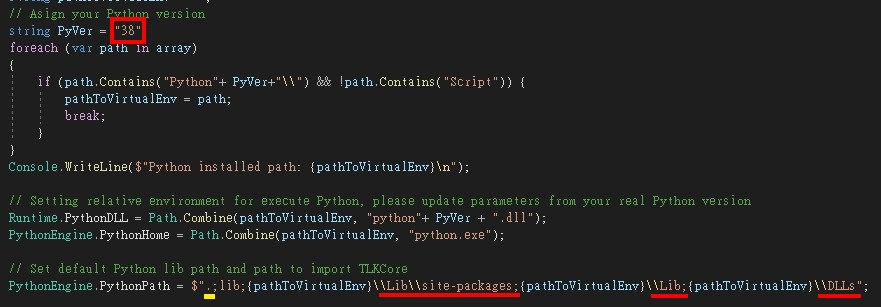
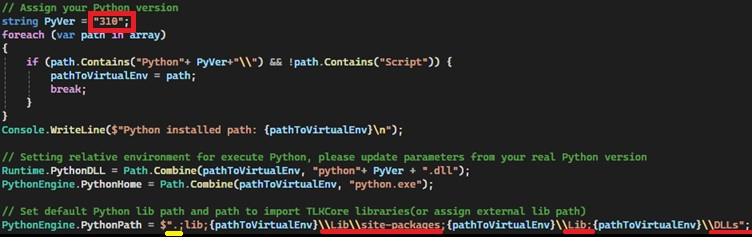
feat: change example to 3.10

diff --git a/examples/MATLAB/TLKCoreExample.m b/examples/MATLAB/TLKCoreExample.m
@@ -8,7 +8,7 @@ if pe.Status == "NotLoaded"
     disp(" ----- Calling pyenv to check Python environment, and it's NotLoaded -> Start loading(OutOfProcess) -----")
 
     % PLEASE MODIFY TO YOUR PYTHON VERSION (3.8/3.10/...) HERE
-    pyenv(ExecutionMode="OutOfProcess")%, "Version", "3.8")
+    pyenv(ExecutionMode="OutOfProcess")%, "Version", "3.10")
 end
 disp(" ----- Calling a simple Pytohn function: py.list to load Python interpreter -----")
 py.list

diff --git a/examples/CSharp/TLKCoreExample/ExampleMain.cs b/examples/CSharp/TLKCoreExample/ExampleMain.cs
@@ -14,7 +14,7 @@ namespace TLKCoreExample
             string[] array = env.Split(new[] { ";" }, StringSplitOptions.None);
             string pathToVirtualEnv = "";
             // Assign your Python version
-            string PyVer = "38";
+            string PyVer = "310";
             foreach (var path in array)
             {
                 if (path.Contains("Python"+ PyVer+"\\") && !path.Contains("Script")) {

diff --git a/examples/MATLAB/README.md b/examples/MATLAB/README.md
@@ -4,7 +4,23 @@
 
 1. Install Python *3.8 ~ 3.12* and install TLKCore follow reference user guide of [Getting Started with Python Sample Code](../Python/README.md) to make sure your Python environment first.
 2. According to [Versions of Python Compatible with MATLAB Products by Release](https://www.mathworks.com/support/requirements/python-compatibility.html) to download MATLAB to maps your Python version.
-   ![matlab](/images/table_matlab.svg)
+
+| MATLAB Version | Python 3.12 | Python 3.11 | Python 3.10 | Python 3.9 | Python 3.8 |
+| :--- | :---: | :---: | :---: | :---: | :---: |
+| **R2026a** | ✅ | ✅ | ✅ | ✅ | |
+| **R2025b** | ✅ | ✅ | ✅ | ✅ | |
+| **R2025a** | ✅ | ✅ | ✅ | ✅ | |
+| **R2024b** | ✅ | ✅ | ✅ | ✅ | |
+| **R2024a** | | ✅ | ✅ | ✅ | |
+| **R2023b** | | ✅ | ✅ | ✅ | |
+| **R2023a** | | | ✅ | ✅ | ✅ |
+| **R2022b** | | | ✅ | ✅ | ✅ |
+| **R2022a** | | | | ✅ | ✅ |
+| **R2021b** | | | | ✅ | ✅ |
+| **R2021a** | | | | | ✅ |
+
+> Notice：`✅` mean supported。
+
 3. Create the new directory: *files*
 ```
 ├── files
@@ -16,7 +32,7 @@
    * BBox calibration tables -> **{SN}_{Freq}GHz.csv**
    * BBox antenna table -> **AAKIT_{AAKitName}.csv**
 
-P.S. The following example executes *MATLAB R2021b & Pyhton 3.8 64bit* on Windows 10
+P.S. The following example executes *MATLAB R2025a & Pyhton 3.10 64bit* on Windows 10
 
 ## MATLAB sample execution steps
 

diff --git a/examples/LabVIEW/README.md b/examples/LabVIEW/README.md
@@ -5,7 +5,18 @@
 1. Python 3 ([Installing Python3](/Install.md#installing-python3))
 2. TLKCore ([Installing TLKCore](/Install.md#installing-tlkcore))
 3. According to [Integrating Python Code in LabVIEW](https://www.ni.com/en/support/documentation/supplemental/18/installing-python-for-calling-python-code.html#section-1736000138) to download LabVIEW to maps your Python version. `Please download 64bit version not 32bit`.
-   ![labview](/images/table_labview.svg)
+
+| LabVIEW Version | Python 3.12 | Python 3.11 | Python 3.10 | Python 3.9 | Python 3.8 |
+| :--- | :---: | :---: | :---: | :---: | :---: |
+| **2026 Q1** | ✅ | ✅ | ✅ | ✅ | |
+| **2025 Q3,Q1** | ✅ | ✅ | ✅ | ✅ | |
+| **2024 Q3,Q1** | | | ✅ | ✅ | ✅ |
+| **2023 Q3,Q1** |  | | ✅ | ✅ | ✅ |
+| **2022 Q3** | | | | ✅ | ✅ |
+| **2021 SP1** | | | | ✅ | ✅ |
+| **2021** | | | | ✅ | ✅ |
+
+> Notice：`✅` mean supported。
 
 4. Download [main.py](/examples/Python/main.py) and create **files** directory.
 ```

diff --git a/examples/CSharp/TLKCoreExample/packages/pythonnet.3.0.3/README.md b/examples/CSharp/TLKCoreExample/packages/pythonnet.3.0.3/README.md
@@ -6,8 +6,8 @@ integrate Python engine and use Python libraries.
 -  You must set `Runtime.PythonDLL` property or `PYTHONNET_PYDLL` environment variable,
    otherwise you will receive `BadPythonDllException`
    (internal, derived from `MissingMethodException`) upon calling `Initialize`.
-   Typical values are `python38.dll` (Windows), `libpython3.8.dylib` (Mac),
-   `libpython3.8.so` (most other *nix). Full path may be required.
+   Typical values are `python310.dll` (Windows), `libpython3.10.dylib` (Mac),
+   `libpython3.10.so` (most other *nix). Full path may be required.
 -  Then call `PythonEngine.Initialize()`. If you plan to [use Python objects from
    multiple threads](https://github.com/pythonnet/pythonnet/wiki/Threading),
    also call `PythonEngine.BeginAllowThreads()`.

diff --git a/examples/CSharp/README.md b/examples/CSharp/README.md
@@ -4,7 +4,7 @@
 
 * Python 3
     1. Install Python *3.8 ~ 3.12*, and install TLKCore follow reference user guide of [Getting Started with Python Sample Code](/examples/Python/README.md) to make sure your Python environment first.
-* Visual Studio - Example runs on *Visual Studio 2019 with .NET Framework 4.7.2*
+* Visual Studio - Example runs on *Visual Studio 2022 with .NET Framework 4.7.2*
     1. Install **pythonnet**
         * Please follow [the reference link](https://learn.microsoft.com/en-us/nuget/consume-packages/install-use-packages-visual-studio) to install pythonnet 3.x.x
         ![Install_Python](/images/CS_Install_Python_Runtime.png)

diff --git a/examples/C_Cpp/lib_tlkcore_cpp/README.md b/examples/C_Cpp/lib_tlkcore_cpp/README.md
@@ -16,15 +16,15 @@ To try it out, run these commands:
 `options` might be(modify to **your Python version** here):
 
     -Dpybind11_DIR=~/.local/share/cmake/pybind11
-    -DPYBIND11_PYTHON_VERSION=3.8
+    -DPYBIND11_PYTHON_VERSION=3.10
 
 See the [**CMakeLists.txt**](CMakeLists.txt) file to figure out how to set up a build system.
 
   ```shell
   # This Python version gets used for Python API (if requested) as well as
   # all the build-time Python scripts
-  set(PYTHON_MIN_VERSION "3.8")
-  set(PYBIND11_PYTHON_VERSION 3.8)
+  set(PYTHON_MIN_VERSION "3.10")
+  set(PYBIND11_PYTHON_VERSION 3.10)
   ```
 
 ## Guideline of C++ wrapper for TLKCore
